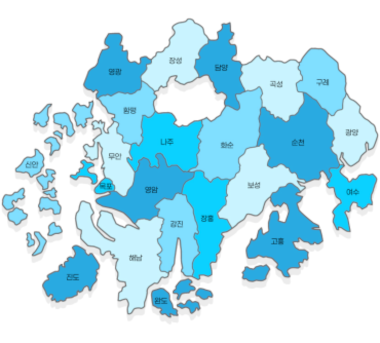
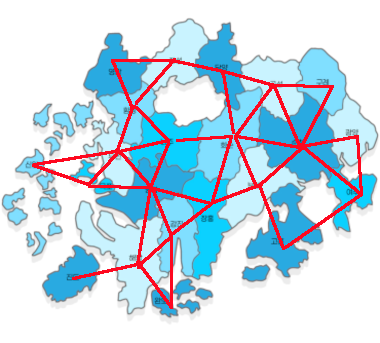
Add files via upload

diff --git a/jn.js b/jn.js
@@ -7,22 +7,42 @@ function getDisplayInfo() {
   return size;
 }
 
-function bg(bl1,bl2) {
+
+// function bg(bl1,bl2) {
+//   success_ck=false;
+//   for(i=0;i<b1*b2;i++){
+//   if (list[i]===1){
+//     document.getElementById(i).style.backgroundColor="skyblue";
+//   } else {
+//     if((((parseInt(i/b2)-bl2)**2 + (i%b2-bl1)**2)==5)){
+//       document.getElementById(i).style.backgroundColor="green";
+//       success_ck=true;
+//     } else {
+//       document.getElementById(i).style.backgroundColor="#dddddd";
+//     }
+//   }
+//   document.getElementById(bl1+bl2*b2).style.backgroundColor="red";
+// }
+// }
+
+function bg(bb) {
   success_ck=false;
-  for(i=0;i<b1*b2;i++){
+  for(i=0;i<22;i++){
   if (list[i]===1){
     document.getElementById(i).style.backgroundColor="skyblue";
   } else {
-    if((((parseInt(i/b2)-bl2)**2 + (i%b2-bl1)**2)==5)){
+    if((path[parseInt(bb)].includes(i))){
       document.getElementById(i).style.backgroundColor="green";
       success_ck=true;
     } else {
       document.getElementById(i).style.backgroundColor="#dddddd";
     }
   }
-  document.getElementById(bl1+bl2*b2).style.backgroundColor="red";
+  document.getElementById(bb).style.backgroundColor="red";
 }
 }
+
+// path=[2,3,[4,5]];
 
 let count = 1;
 
@@ -35,98 +55,48 @@ function success(){
     if(success_ck){
       re.textContent ="게임중입니다. 녹색을 선택하여 이동하십시오."
     } else {
-      re.textContent ="더 이상 갈 곳이 없습니다. 빨간색을 선택하여 되돌아 가거나, 시작을 클릭하여 다시 시작하십시오."
+      re.textContent ="더 이상 갈 곳이 없습니다."
     }
   }
 }
 
-// function clickbt(lo1, lo2) {
-//   if(lo1==last_x && lo2==last_y){
-//     if(list_number[lo1+lo2*b2]=="1"){
-//       window.location.reload();
-//     }
-    
-//     list[lo1+lo2*b2]=(list[lo1+lo2*b2]+1)%2;
-//     list_number[lo1+lo2*b2]="0";
-
-//     const element1 = document.getElementById(lo1+lo2*b2);
-//     element1.innerText = "";
-
-//     let last_number1=list_number.indexOf(number-2);
-//     lo2=parseInt(last_number1/b2);
-//     lo1=last_number1%b2;
-
-//     let last_number2=list_number.indexOf(number-3);
-//     last_y=parseInt(last_number2/b2);
-//     last_x=last_number2%b2;
-//     number--;
-//     number--;
-
-//     const element = document.getElementById(lo1+lo2*b2);
-//     element.innerText = number;
-//     list_number[lo1+lo2*b2] = number;
-//     number++;
-//     bg(lo1,lo2);
-//     last_x=lo1;
-//     last_y=lo2;
-    
-//   }
-
-//   if((last_x+last_y==-2 || (((last_x-lo1)**2 + (last_y-lo2)**2)==5))&& list[lo1+lo2*b2]==0 ){
-//     list[lo1+lo2*b2]=(list[lo1+lo2*b2]+1)%2;
-//     const element = document.getElementById(lo1+lo2*b2);
-//     element.innerText = number;
-//     list_number[lo1+lo2*b2] = number;
-//     number++;
-//     bg(lo1,lo2);
-//     last_x=lo1;
-//     last_y=lo2;
-//   }
-//   success();
-// }
-
-// function main(a1, a2) {
-//   list=[];
-//   list_number=[];
-//   count=1;
-//   number = 1;
-//   last_x = -1;
-//   last_y = -1;
-//   let tag = "<div class='container'>";
-//     b1 = parseInt(a1);
-//     b2 = parseInt(a2);
-//     var size = getDisplayInfo();
-//     s = Math.min((size.width-15*b2)/b2,60);
-//     for (j = 0; j < b1; j++) {30  
-//       tag += "<div class='row'>";
-//       for (i = 0; i < b2; i++) {
-//         list.push(0);
-//         tag += "<div class='column' id='"+(i+j*b2)+"' style=width:"+s+"px;height:"+s+"px; onclick='clickbt("+i+","+j+")'></div>";
-//       }
-//       tag += "</div>";
-//     }
-//     tag += "</div>";
-//     area.innerHTML = tag;
-//     console.log=tag;
-//     document.getElementById("result").textContent = "네모칸을 선택하여 게임을 시작하십시오.";
-//   }
-
-// jn_name=['목포', '여수', '순천', '나주', '광양'];
-// jn_left=['152','513','404','242','511'];
-// jn_top=['271','277','207','206','192'];
-
 jn_name=['목포', '여수', '순천', '나주', '광양', '담양', '곡성', '구례', '고흥', '보성', '화순', '장흥', '강진', '해남', '영암', '무안', '함평', '영광', '장성', '완도', '진도', '신안'];
 jn_left=['58','329','270','140','325','190','240','300','250','225','200','180','140','105','120','85','100','80','140','140','40','0'];
-jn_top=['200','209','160','155','150','85','100','100','260','200','150','220','250','280','205','165','120','75','75','320','290','180'];
+jn_top=['240','249','200','195','190','125','140','140','300','240','190','260','290','320','245','205','160','115','115','360','330','220'];
+
+path=[[14,15,21],[2,4,8],[1,4,6,7,9,10],[10,14,15,16],[1,2],[6,10,18],[2,5,7,10],[2,6],[1,9],[2,8,10,11],[2,3,5,6,9,11],[9,10,12,14],[11,13,14,19],[12,14,19,20],[0,3,11,12,13,15],[0,3,14,16,21],[3,15,17,18],[16,18],[5,16,17],[12,13],[13],[0,15]];
 
 
 function clickbt(j) {
+  if(list[j]==0){
     const element = document.getElementById(j);
     element.innerText = jn_name[j]+number;
     list_number[j] = number;
     number++;
+    list[j]=1;
     bg(j);
+  } else {
+    if(list_number[j]==number-1){
+      if(list_number.indexOf(number-2)==0){
+        main()
+      } else{
+        const element = document.getElementById(j);
+        element.innerText = jn_name[j];
+        list_number[j]=0;
+        number--;
+        list[j]=0;
+        bg(list_number.indexOf(number-1));
+      }
+    }
+
+  }
   success();
+  let re1 = document.getElementById("aaa");
+  re1.textContent =list
+  let re2 = document.getElementById("bbb");
+  re2.textContent =list_number
+  let re3 = document.getElementById("ccc");
+  re3.textContent =list_number.indexOf(number-1)
 }
 
 
@@ -136,21 +106,21 @@ function clickbt(j) {
     count=1;
     number = 1;
     let tag = "<div class='container'>";
-    // 5를 22로 수정할 것
       for (i = 0; i < 22; i++) {
         list.push(0);
+        list_number.push(0);
         tag += "<div class='column' id='"+i+"' style=width:30px;height:30px;left:"+jn_left[i]+"px;top:"+jn_top[i]+"px; onclick='clickbt("+i+")'></div>";
-
       }
       tag += "</div>";
       area.innerHTML = tag;
       console.log=tag;
-      // document.getElementById("result").textContent = "네모칸을 선택하여 게임을 시작하십시오.";
+      document.getElementById("result").textContent = "출발지를 선택하십시오.";
       
       for (i = 0; i < 22; i++) {
         document.getElementById(i).textContent = jn_name[i];
       }
     }
+
 
 
 onload = () => {

diff --git a/jn.html b/jn.html
@@ -10,19 +10,25 @@
     <body>
         <center>
         <font size=6px>전라남도 여행</font>
-            <br>
+            
+        </center>
+        <hr/>
+        <div id="img" style="font-size:30px;left:-10px;top:70px"><img src="jn_img.png"></div><br>
+        <div id="area" style="font-size:30px"></div><br>
+
+        
         <font size=5px>
         <button onclick="main()" style="font-size:20px"> 시작 </button>
         </font>
-        </center>
-        <hr/>
-        <div id="img" style="font-size:30px;left:-10px;top:30px"><img src="jn_img.png"></div><br>
-        <div id="area" style="font-size:30px"></div><br>
+    
+        <div id="result" style="font-size:30px;top:450px">출발</div>
+        <div id="aaa" style="font-size:30px;top:500px">출발</div>
+        <div id="bbb" style="font-size:30px;top:550px">출발</div>
+        <div id="ccc" style="font-size:30px;top:600px">출발</div>
         
-        <!-- <div id="result" style="font-size:30px">Turn : 0</div> -->
-        <!-- <br><center><font size="5px"><b>[기사의 여행의 규칙]</b><br>
-        1. 출발점에서 체스의 나이트가 움직이는 경로로 움직인다.<br>
+        <!-- <br><br><br><br><br><br><br><br><br><br><br><br><br><br><br><br><br><br><font size="5px"><b>[전라남도 여행의 규칙]</b><br>
+        1. 출발지부터 길을 따라 움직인다.<br>
         2. 한 번 지나간 지점을 다시  갈 수 없다.<br>
-        3. 게임 판의 모든 지점을 지나가면 성공이다.</font></center> -->
+        3. 전라남도 모든 지점을 지나가면 성공이다.</font> -->
     </body>
 </html>

diff --git a/jn.css b/jn.css
@@ -25,7 +25,7 @@ div {
 .column{
     width: 60px;
     height: 60px;
-    background-color: #DDDDDD;
+    background-color: #dddddd;
     margin: -3px 2px -3px 2px;
     float: left;
     border-radius: 5px;
